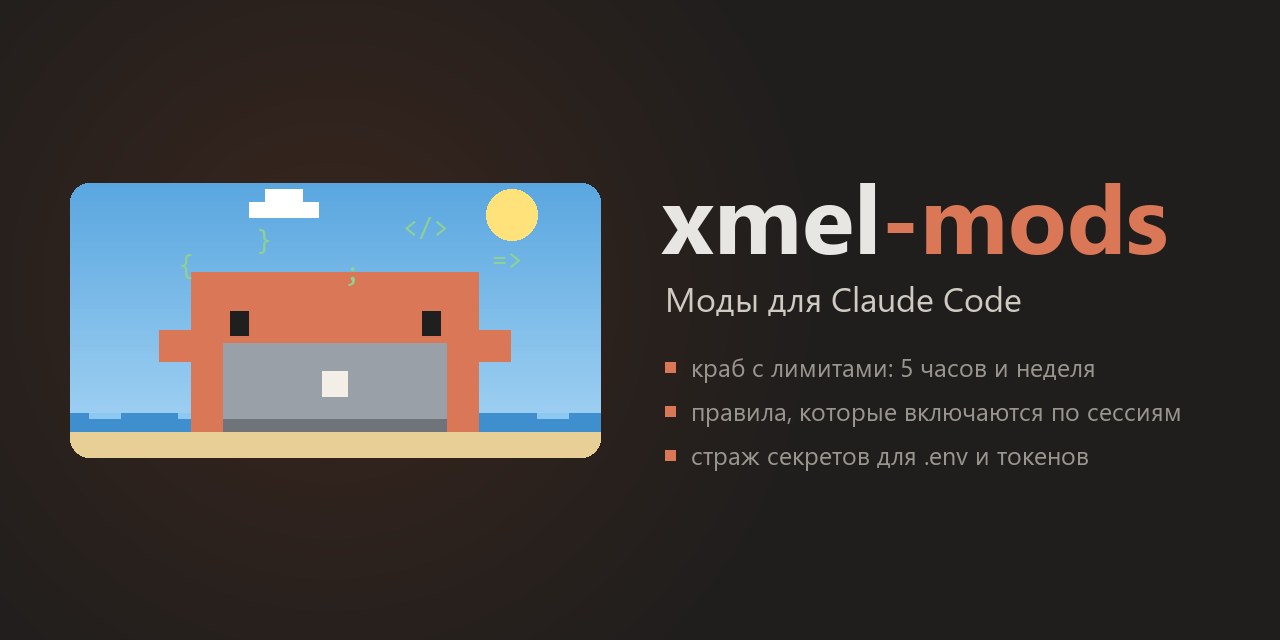
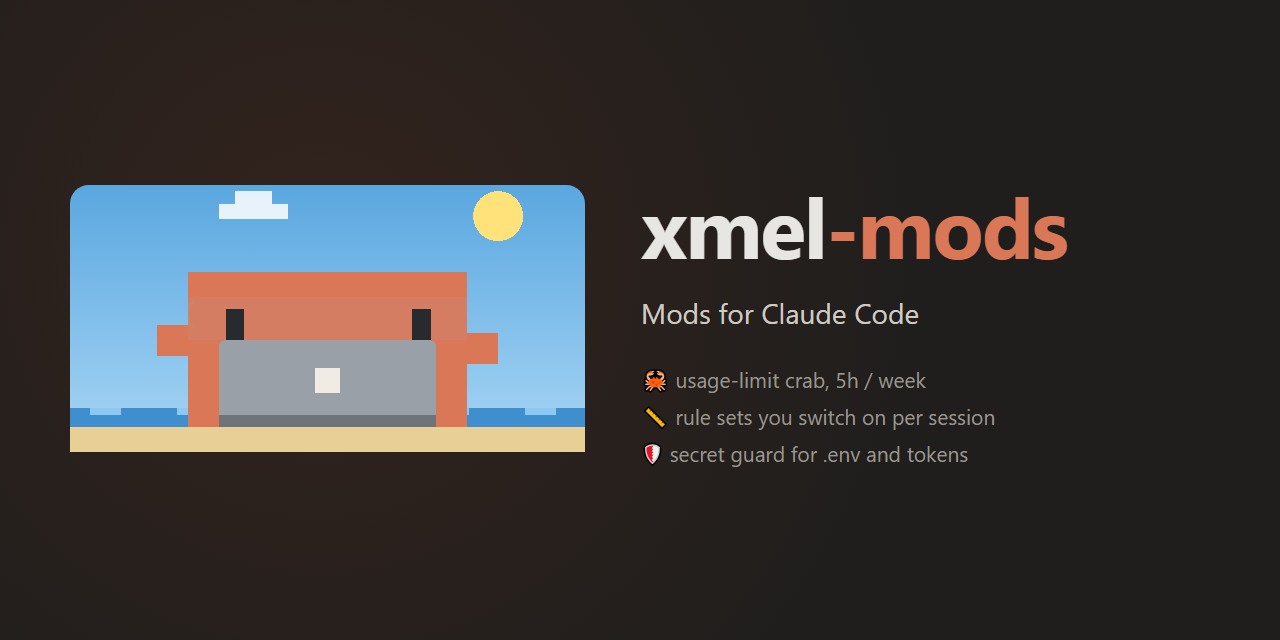
docs: new screenshots in English and Russian, with the pace forecast
English READMEs use the English screenshots (assets/*.png), Russian READMEs
the Russian ones (assets/*.ru.png). The band screenshot now shows the secret
guard row too, and the usage-crab panel shows the pace forecast and the
language button. New secret-guard panel mockup. The repo banner is English.

diff --git a/usage-crab/README.ru.md b/usage-crab/README.ru.md
@@ -3,7 +3,7 @@
 
 Лимиты Claude за 5 часов и за неделю всегда перед глазами. Показывает время до сброса и на что ушёл расход. В панели живёт пиксельный краб, чьё настроение зависит от лимитов.
 
-<p align="center"><img src="assets/band.png" alt="Строка над полем ввода: 5ч 41%, неделя 63%, кнопки Подробнее и Правила" width="640"></p>
+<p align="center"><img src="assets/band.ru.png" alt="Строки над полем ввода: 5ч 41%, неделя 50%, кнопки Подробнее и Правила; ниже строка стража" width="640"></p>
 
 > По умолчанию интерфейс английский: кнопка 🌐 EN · RU в панели (или `/crab lang`) переключает его на русский.
 
@@ -19,7 +19,7 @@
 
 **Строка над полем ввода.** Проценты за 5 часов и за неделю и время до сброса. Кнопка «🦀 Подробнее» открывает панель, «📏 Правила» — панель мода [session-rules](../session-rules/), если он установлен. Ниже в этой же области стоит строка мода [secret-guard](../secret-guard/): он добавляет её сам, если установлен.
 
-<p align="center"><img src="assets/panel.png" alt="Панель usage-crab: краб, полоски лимитов, разбивка расхода" width="360"></p>
+<p align="center"><img src="assets/panel.ru.png" alt="Панель usage-crab: краб, полоски лимитов, разбивка расхода" width="360"></p>
 
 **Панель** (кнопка «Подробнее» или команда `/crab`):
 - полоски лимитов, которые плавно краснеют от зелёного к красному, и точное время сброса;
@@ -41,7 +41,7 @@
 
 Настроение краба зависит от обоих лимитов: пятичасовой решает, насколько он суетится сейчас, недельный — бережётся ли он вообще.
 
-<p align="center"><img src="assets/moods.png" alt="Восемь состояний краба" width="900"></p>
+<p align="center"><img src="assets/moods.ru.png" alt="Восемь состояний краба" width="900"></p>
 
 | Условие | Краб |
 |---|---|
@@ -53,7 +53,7 @@
 
 Фон за ним меняется по часам твоего компьютера, а фразы подстраиваются под время суток:
 
-<p align="center"><img src="assets/day-cycle.png" alt="Утро, день, вечер и ночь" width="900"></p>
+<p align="center"><img src="assets/day-cycle.ru.png" alt="Утро, день, вечер и ночь" width="900"></p>
 
 В терминале краб рисуется символами и не анимируется.
 

diff --git a/secret-guard/README.ru.md b/secret-guard/README.ru.md
@@ -3,7 +3,7 @@
 
 Не даёт токенам, ключам и паролям попасть к модели и в git. Ты сам по-прежнему видишь всё как есть, а Claude получает метку вместо секрета.
 
-<p align="center"><img src="assets/example.png" alt="Токен в сообщении и в файле .env заменён меткой, git add -A остановлен" width="760"></p>
+<p align="center"><img src="assets/example.ru.png" alt="Токен в сообщении и в файле .env заменён меткой, git add -A остановлен" width="760"></p>
 
 > По умолчанию интерфейс английский: кнопка 🌐 EN · RU в панели (или `/secrets lang`) переключает его на русский. От языка зависит и вид меток вместо секретов: `[hidden: …]` или `[скрыто: …]`, оба считаются уже скрытыми.
 
@@ -36,12 +36,12 @@
 
 Над полем ввода у стража своя строка: «Страж работает · скрыто 3» и две кнопки.
 
-<p align="center"><img src="../usage-crab/assets/band.png" alt="Строка над вводом: внизу строка стража с кнопками Пауза 10 мин и Подробнее" width="640"></p>
+<p align="center"><img src="../usage-crab/assets/band.ru.png" alt="Строка над вводом: внизу строка стража с кнопками Пауза 10 мин и Подробнее" width="640"></p>
 
 - **Пауза 10 мин** выключает стража на 10 минут, например чтобы Claude поправил `.env`. Пока страж на паузе, кнопка превращается в **Включить**, а через 10 минут он включается сам.
 - **Подробнее** открывает панель: пауза на 10 минут, 30 минут или час, счётчик скрытого, последние события и кнопка «Забыть запомненные значения».
 
-<p align="center"><img src="assets/panel.png" alt="Панель стража: пауза, счётчики и последние события" width="360"></p>
+<p align="center"><img src="assets/panel.ru.png" alt="Панель стража: пауза, счётчики и последние события" width="360"></p>
 
 В панели видно только вид секрета, откуда он пришёл и время. Сами значения нигде не показываются и не записываются на диск.
 

diff --git a/usage-crab/README.md b/usage-crab/README.md
@@ -4,9 +4,9 @@
 
 Your Claude limits for 5 hours and for the week, always in view. Shows time until reset and what the usage went on. A pixel crab lives in the panel, and its mood depends on your limits.
 
-<p align="center"><img src="assets/band.png" alt="Row above the input: 5h 41%, week 63%, Details and Rules buttons" width="640"></p>
+<p align="center"><img src="assets/band.png" alt="Rows above the input: 5h 41%, week 50% with Details and Rules buttons; below, the secret guard row" width="640"></p>
 
-> The interface is English by default; the 🌐 EN · RU button in the panel (or `/crab lang`) switches it to Russian. The screenshots show the Russian interface.
+> The interface is English by default; the 🌐 EN · RU button in the panel (or `/crab lang`) switches it to Russian. The Russian screenshots are in the [Russian README](README.ru.md).
 
 ## Installation
 

diff --git a/session-rules/README.ru.md b/session-rules/README.ru.md
@@ -3,7 +3,7 @@
 
 Правила, к которым ты пришёл с Claude в одном проекте (как писать коммиты, стиль кода, язык документации), можно сохранить и включать в любой другой сессии одной кнопкой.
 
-<p align="center"><img src="assets/panel.png" alt="Панель правил: набор commits включён и раскрыт, ещё два выключены" width="380"></p>
+<p align="center"><img src="assets/panel.ru.png" alt="Панель правил: набор commits включён и раскрыт, ещё два выключены" width="380"></p>
 
 > По умолчанию интерфейс английский: кнопка 🌐 EN · RU в панели (или `/rules lang`) переключает его на русский.
 

diff --git a/secret-guard/README.md b/secret-guard/README.md
@@ -6,7 +6,7 @@ Keeps tokens, keys and passwords away from the model and out of git. You still s
 
 <p align="center"><img src="assets/example.png" alt="A token in a message and in .env replaced by a placeholder, git add -A stopped" width="760"></p>
 
-> The interface is English by default; the 🌐 EN · RU button in the panel (or `/secrets lang`) switches it to Russian. The screenshots show the Russian interface and placeholders.
+> The interface is English by default; the 🌐 EN · RU button in the panel (or `/secrets lang`) switches it to Russian. The screenshots are in English; the Russian ones are in the [Russian README](README.ru.md).
 
 ## Installation
 

diff --git a/session-rules/README.md b/session-rules/README.md
@@ -6,7 +6,7 @@ Rules you worked out with Claude in one project (how to write commits, code styl
 
 <p align="center"><img src="assets/panel.png" alt="Rules panel: the commits set is on and expanded, two more are off" width="380"></p>
 
-> The interface is English by default; the 🌐 EN · RU button in the panel (or `/rules lang`) switches it to Russian. The screenshot shows the Russian interface.
+> The interface is English by default; the 🌐 EN · RU button in the panel (or `/rules lang`) switches it to Russian. The Russian screenshot is in the [Russian README](README.ru.md).
 
 ## Installation
 

diff --git a/README.md b/README.md
@@ -10,7 +10,7 @@
   English and Russian interface.
 </p>
 
-> The interface is in English by default and switches to Russian with the 🌐 button (see [Language](#language)). The screenshots currently show the Russian interface.
+> The interface is in English by default and switches to Russian with the 🌐 button (see [Language](#language)).
 
 ---
 
